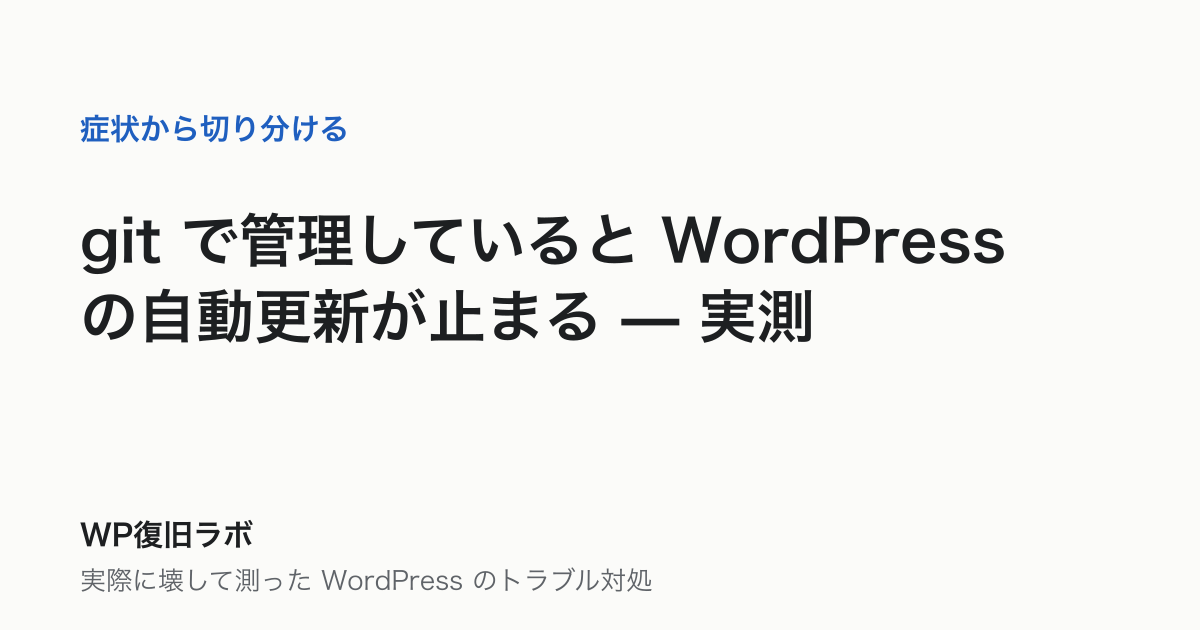
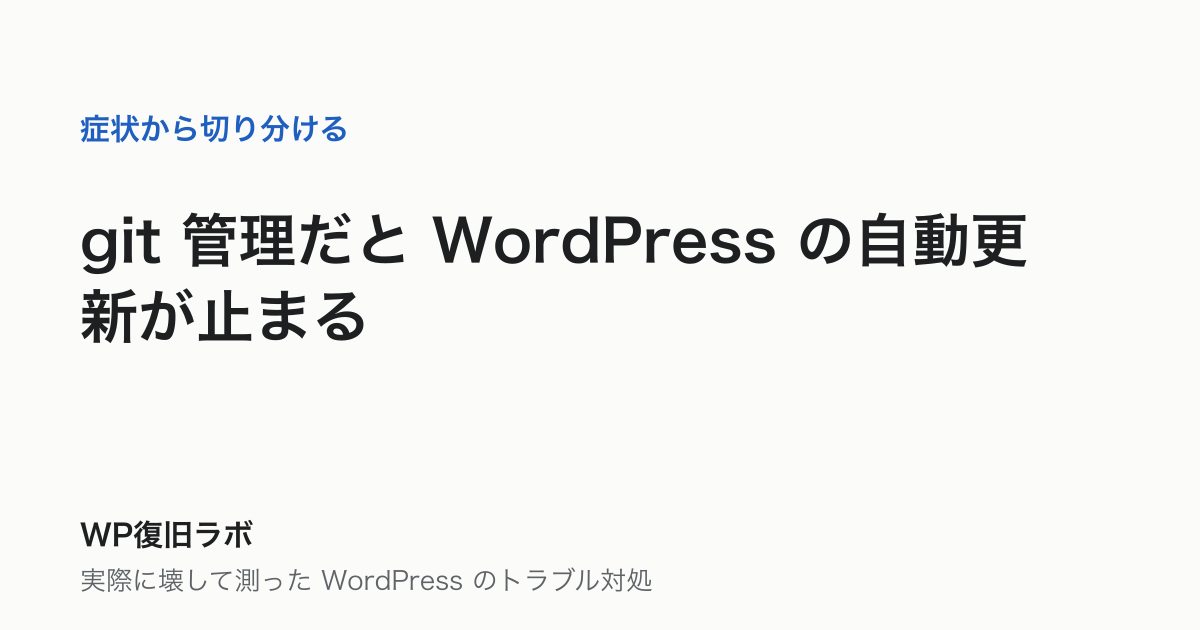
git 管理下の自動更新の記事を公開する（46 本すべて公開）
残っていた draft 1 本を article-publish の手順で確認して公開した。

- タイトルを 37 文字 → 28 文字に詰めた（基準は 32 文字以内）
- 被リンクが 0 本だったので、ラボ側で auto-update-not-working から 1 本足し
  （ラボのコミット 7d2dd29）、sync:articles で取り込んだ
- 結論ボックス・スクリーンショット 2 枚・発リンク 5 本は既にあり
- OG 画像をタイトルに合わせて作り直した

確認: build と check:site はエラー 0 件・警告 0 件、記事 46 本すべて published。
サイトマップに掲載され、noindex は外れている。

Claude-Session: https://claude.ai/code/session_01PwatssNbVmYK9N2zC5uRVZ

Changed region(s): [[0.1542, 0.3317, 0.8633, 0.4222], [0.0617, 0.4524, 0.4933, 0.5429], [0.5242, 0.4524, 0.6783, 0.5429]]

diff --git a/src/content/articles/git-managed-auto-update.md b/src/content/articles/git-managed-auto-update.md
@@ -1,5 +1,5 @@
 ---
-title: "git で管理していると WordPress の自動更新が止まる — 実測"
+title: "git 管理だと WordPress の自動更新が止まる"
 slug: git-managed-auto-update
 seo_title: "WordPress 自動更新が止まる｜git 管理が原因"
 description: "git でデプロイしているサイトでは、WordPress が「バージョン管理下」と判断して自動更新を止めます。本体もプラグインも更新されなくなるのに、管理画面の「自動更新」の列は残ったままでした。実測した結果をまとめます。"
@@ -13,7 +13,8 @@ summary: |
   ・プラグイン一覧の「自動更新」の列は残り、有効化も押せるので、設定できているように見えます
   ・wp-config.php の定数を見ても分かりません。定数による無効化とは別の経路です
   ・WordPress より 1 階層上の .git でも検出されます。更新はリポジトリ側で行い、担当と頻度を決めます
-status: draft
+status: published
+published: 2026-09-26
 verified: 2026-09-18
 ---
 

diff --git a/.lab-base/articles/auto-update-not-working.md b/.lab-base/articles/auto-update-not-working.md
@@ -57,6 +57,10 @@ Hello Dolly の自動更新を有効化: ["hello.php"]
 **プラグインを新しく入れたときは、そのつど自動更新を有効にしない限り対象になりません。**
 「前に設定したから大丈夫」は成り立ちません。
 
+有効にしてあるのに更新されない場合は、別の経路で止まっていることがあります。
+git でデプロイしているサイトでは、**有効化の表示が残ったまま更新だけが止まります**（実測）。
+→ [git 管理だと WordPress の自動更新が止まる](git-managed-auto-update.md)
+
 ## 「自動更新」の列が無いなら、設定で止められている
 
 同じ画面でも、列そのものが出ないことがあります。

diff --git a/src/content/articles/auto-update-not-working.md b/src/content/articles/auto-update-not-working.md
@@ -64,6 +64,10 @@ Hello Dolly の自動更新を有効化: ["hello.php"]
 **プラグインを新しく入れたときは、そのつど自動更新を有効にしない限り対象になりません。**
 「前に設定したから大丈夫」は成り立ちません。
 
+有効にしてあるのに更新されない場合は、別の経路で止まっていることがあります。
+git でデプロイしているサイトでは、**有効化の表示が残ったまま更新だけが止まります**（実測）。
+→ [git 管理だと WordPress の自動更新が止まる](git-managed-auto-update.md)
+
 ## 「自動更新」の列が無いなら、設定で止められている
 
 同じ画面でも、列そのものが出ないことがあります。
